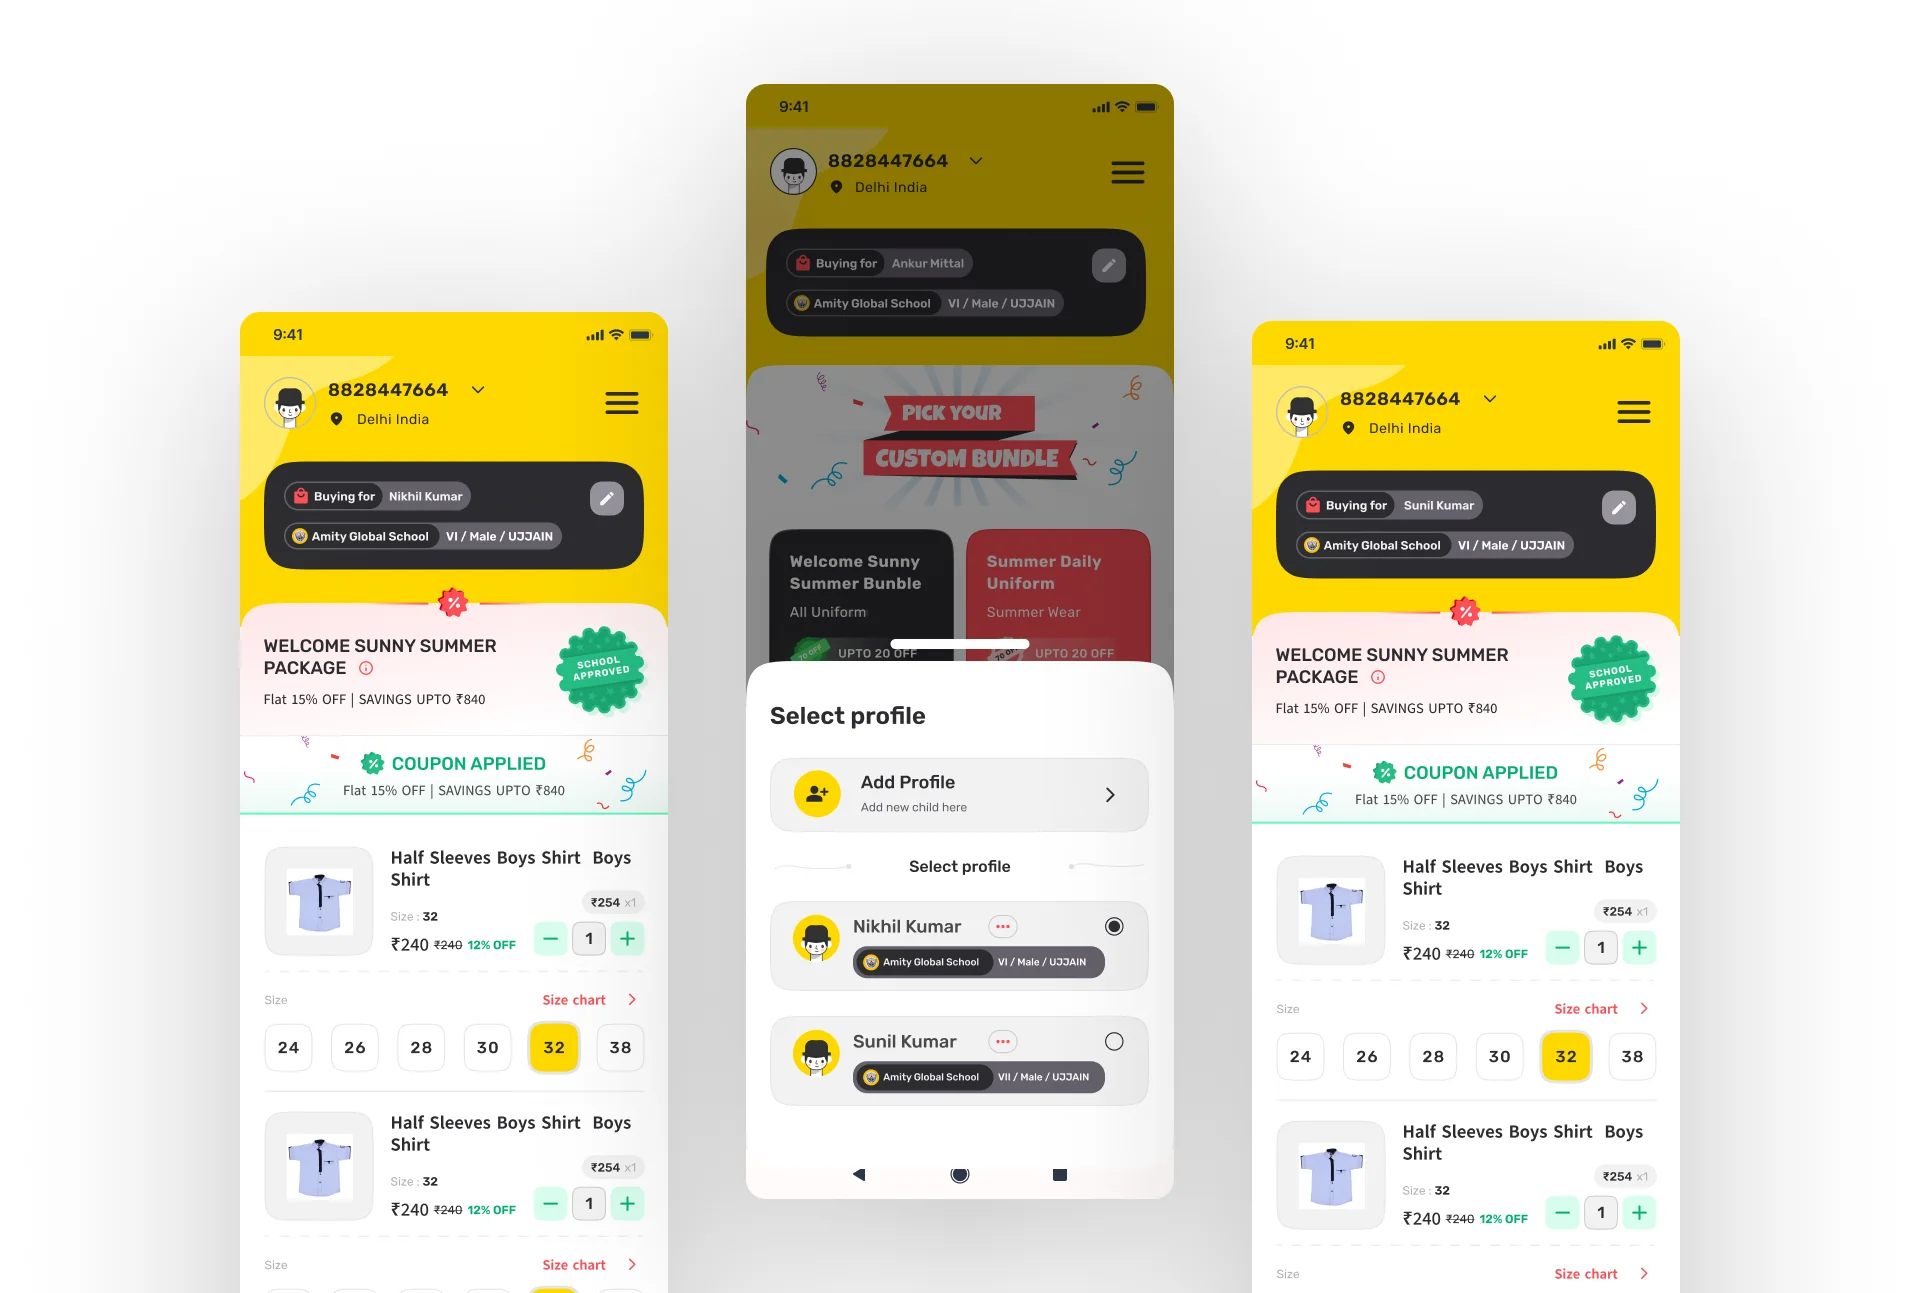
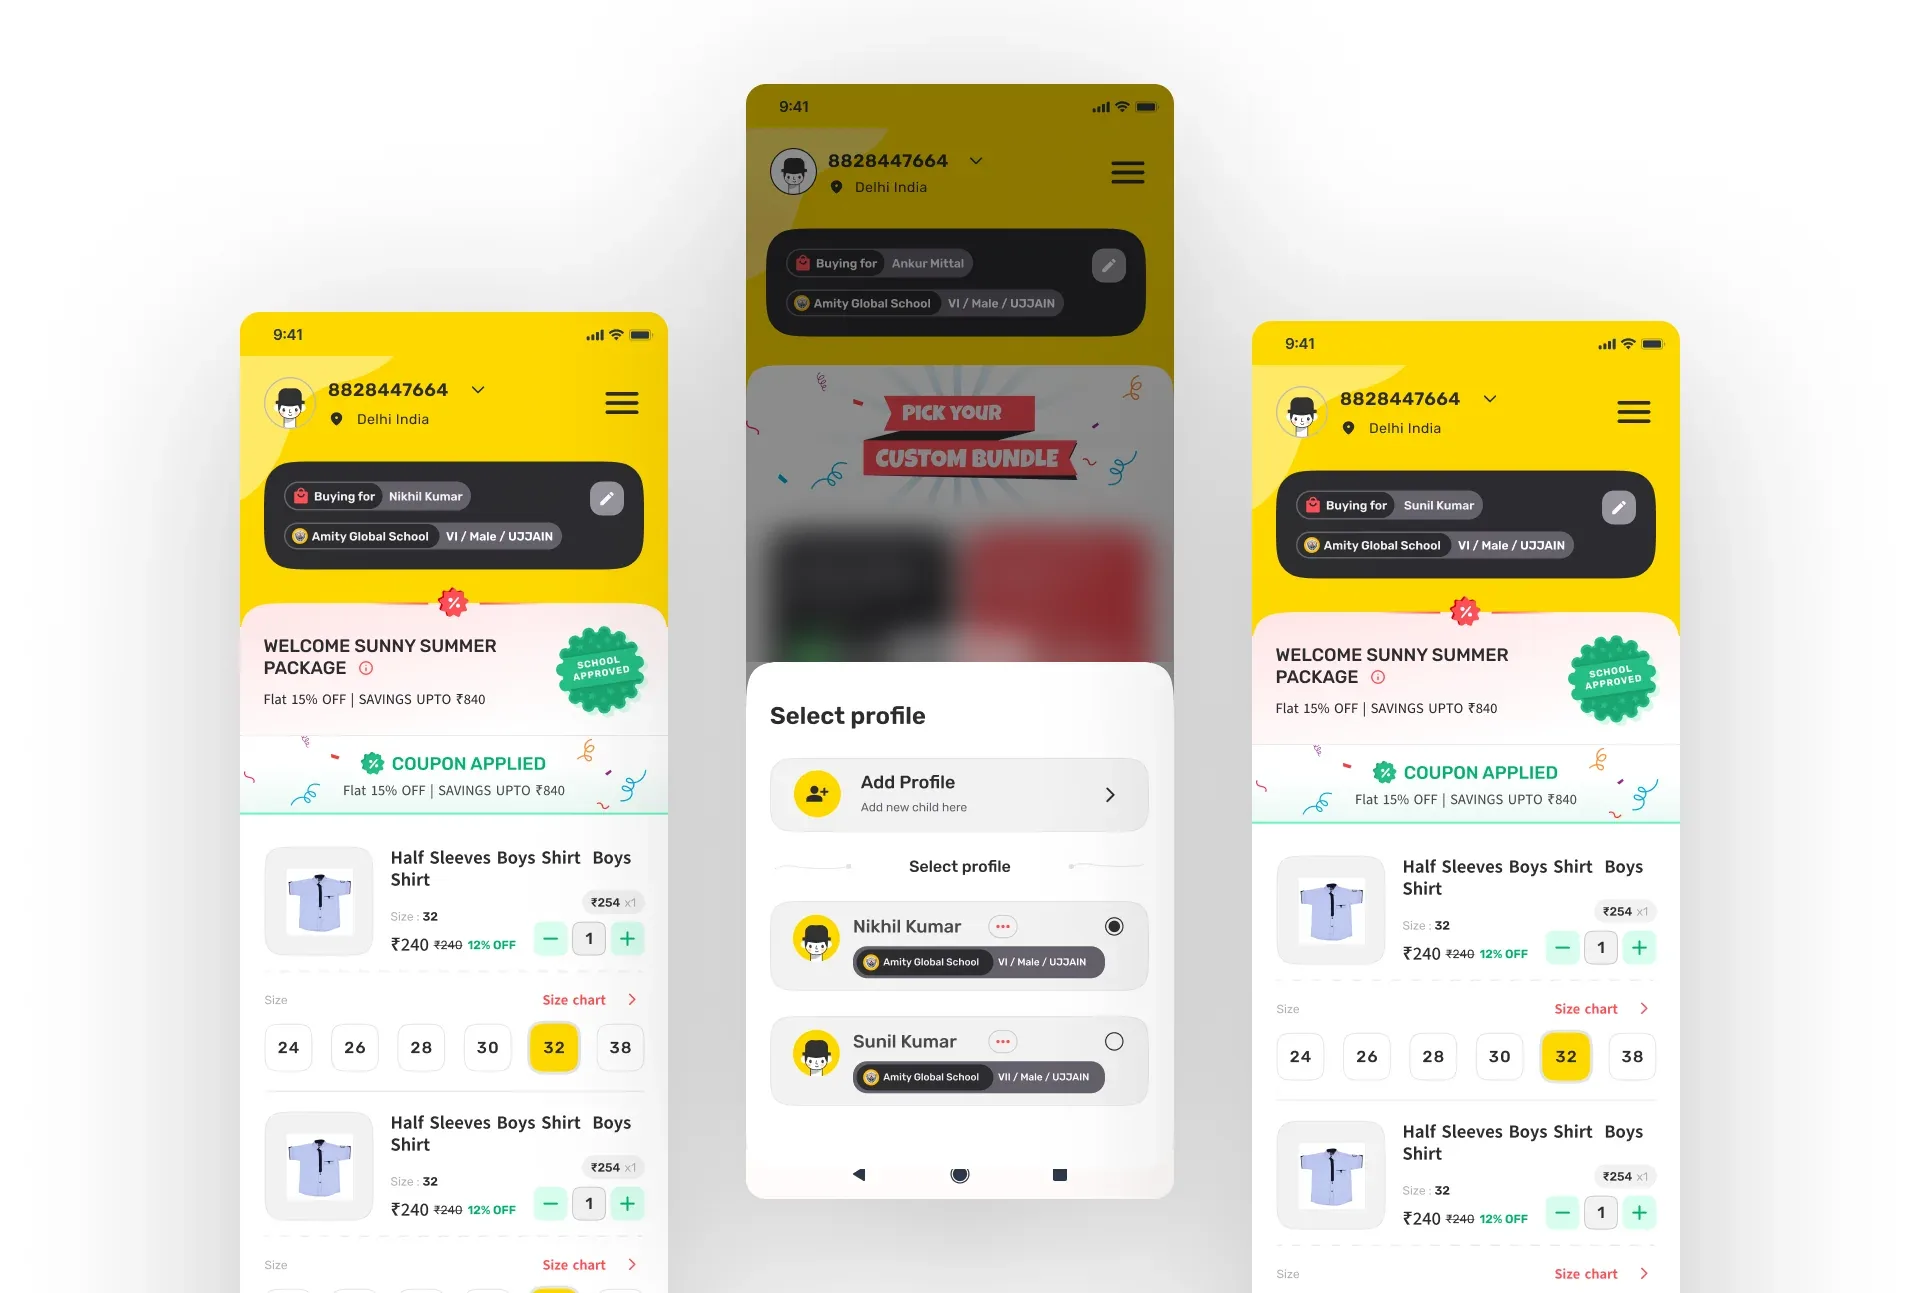
Design studies: critic fixes for Stratalite, Skooltag and PCC
Stratalite v1.5: impact strip swaps the 106 UAT cases for 35 fields traced to 18 dashboard outputs; role heading and body no longer lead with testing; UAT table kept (43 = 31 + 6 + 6, 21 = 17 + 2 + 2, 42 = 38 + 4; 106 = 86 + 12 + 8, retests from the QA sheets' Overview notes); completed-project screen captioned as a mockup with sample data.
Skooltag v1.4: palette re-exported from the original with every hex band painted to the exact background; 'Bunble' blurred out of the backdrop in bundle-package and cropped out of replacement-flow; captions made honest.
PCC v1.3: new 'PCC Roofing, live' gallery after the plan-vs-live audit, with the homepage and residential roofing first screens at 1440 wide.

Changed region(s): [[0.375, 0.4022, 0.625, 0.5259]]

diff --git a/scripts/design-studies/stratalite.js b/scripts/design-studies/stratalite.js
@@ -4,7 +4,7 @@ const img = (name) => `/design/stratalite/${name}.webp`;
 
 export default {
   slug: 'stratalite',
-  version: 'v1.4',
+  version: 'v1.5',
   order: 1,
   published: true,
   title: 'Stratalite',
@@ -35,9 +35,9 @@ export default {
       note: 'Plus 30 corrections to the flow boards from cross-role checks, 29 applied'
     },
     {
-      value: '106',
-      label: 'user acceptance testing (UAT) cases across 3 passes, finding 15 distinct issues before rollout',
-      note: '6 of them high priority. Vendor, manager and company admin accounts, 18 to 20 Aug 2026'
+      value: '35 → 18',
+      label: 'input fields traced to dashboard outputs before any dashboard was drawn',
+      note: '10 KPIs agreed with the client; the invoice amount alone feeds 6 of the 10 company-admin numbers'
     }
   ],
   sections: [
@@ -56,8 +56,8 @@ The design problem was not the screens. It was that **five roles** (platform adm
     {
       type: 'text',
       label: 'My role',
-      heading: 'Design Lead, from the whiteboard to acceptance testing',
-      body: `- **Owned:** stakeholder map, personas, journey maps, information architecture, flows, about 210 designed frames, the access model, the design-vs-build review and user acceptance testing (UAT).
+      heading: 'Design Lead, from the whiteboard to the live build',
+      body: `- **Owned:** stakeholder map, personas, journey maps, information architecture, flows, about 210 designed frames, the access model, the design-vs-build review, and the acceptance testing before rollout.
 - **Worked with:** the client's team at Stratalite on priorities and KPIs, and the developers who built the product.
 - **Joined** before any screen existed, and stayed until the live build matched the design.`
     },
@@ -230,7 +230,7 @@ So before any screen, I mapped **13 actions against 5 roles**, in 5 domains, at 
       type: 'text',
       label: 'Testing the build',
       heading: 'Tested across roles, not one screen at a time',
-      body: `A permission model is only right if every role sees the right thing at the same moment. So I tested it the way it is used: **vendor and manager accounts working the same test project side by side**, so each hand-off from interest to payment was checked from both ends.
+      body: `A permission model is only right if every role sees the right thing at the same moment. So before rollout I ran user acceptance testing (UAT) the way the product is used: **vendor and manager accounts working the same test project side by side**, so each hand-off from interest to payment was checked from both ends.
 
 | Pass | Date | Test cases | Passed | Flagged | Needed a retest |
 |---|---|---|---|---|---|
@@ -289,7 +289,7 @@ Later I mapped the live product one role at a time: **237 flows** across 5 roles
         {
           src: img('screen-completed'),
           alt: 'Project marked complete, with the invoice ready to review and confirm',
-          caption: 'The manager sees the completed project with its invoice attached.'
+          caption: 'Design mockup with sample data: the manager sees the completed project with its invoice attached.'
         },
         {
           src: img('screen-payment'),

diff --git a/scripts/design-studies/skooltag.js b/scripts/design-studies/skooltag.js
@@ -4,7 +4,7 @@ const img = (name) => `/design/skooltag/${name}.webp`;
 
 export default {
   slug: 'skooltag',
-  version: 'v1.3',
+  version: 'v1.4',
   order: 3,
   published: true,
   title: 'Skooltag',
@@ -93,7 +93,7 @@ After the order mattered as much: tracking, item-level cancellation, invoice dow
       images: [
         {
           src: img('replacement-flow'),
-          alt: 'The replacement flow: item selection, reason codes, size re-selection and confirmation',
+          alt: 'The replacement flow: items to replace, the reason sheet, size re-selection with the old size blocked, the request screen and confirmation',
           caption: 'Replacement: a reason, a new size, and a block on re-picking the same one.'
         }
       ]
@@ -130,12 +130,12 @@ After the order mattered as much: tracking, item-level cancellation, invoice dow
         {
           src: img('component-library'),
           alt: 'Skooltag component sheet: product card states, cart buttons, primary buttons and input fields',
-          caption: 'Components: product card states, cart and primary buttons, input fields with error states.'
+          caption: 'Components: product card states, cart and primary buttons, input fields with error states. Labels are the placeholder text of the component sheet.'
         },
         {
           src: img('colour-palette'),
           alt: 'Skooltag colour palette: primary yellow and its button states, ink and grey shades, and the warning, error and success colours',
-          caption: 'Colour palette, swatches and names only. The hex labels in this export were wrong, so they are removed.'
+          caption: 'Colour palette: swatches and state names only. The hex codes in the original export were mislabelled, so they are left out.'
         }
       ]
     },

diff --git a/scripts/design-studies/pacific-coast-contracting.js b/scripts/design-studies/pacific-coast-contracting.js
@@ -4,7 +4,7 @@ const img = (name) => `/design/pacific-coast-contracting/${name}.webp`;
 
 export default {
   slug: 'pacific-coast-contracting',
-  version: 'v1.2',
+  version: 'v1.3',
   order: 2,
   published: true,
   title: 'Pacific Coast Contracting',
@@ -126,6 +126,25 @@ Over the 90 days from 14 Jun to 11 Sep 2026, the rebuilt roofing site earned 31,
           src: img('roofing-audit'),
           alt: 'Waffle chart of 64 planned roofing pages: 27 live, 17 live only as a section, 20 missing',
           caption: 'Plan vs live, August 2026.'
+        }
+      ]
+    },
+    {
+      type: 'gallery',
+      label: 'The live roofing site',
+      heading: 'PCC Roofing, live',
+      body: 'The roofing site the plan was checked against. I designed it; the dev team built it.',
+      layout: 'grid-2',
+      images: [
+        {
+          src: img('live-roofing-home'),
+          alt: 'PCC Roofing homepage, first screen: the headline Greater Vancouver\'s roof replacement experts, a 5.0 Google rating and a free assessment form in the hero',
+          caption: 'The live PCC Roofing homepage I designed, built by the dev team.'
+        },
+        {
+          src: img('live-roofing-residential'),
+          alt: 'PCC Roofing residential roof replacement page, first screen: headline, short intro, four trust points and a photo of a finished roof',
+          caption: 'Residential roof replacement, the main service page, live.'
         }
       ]
     },
